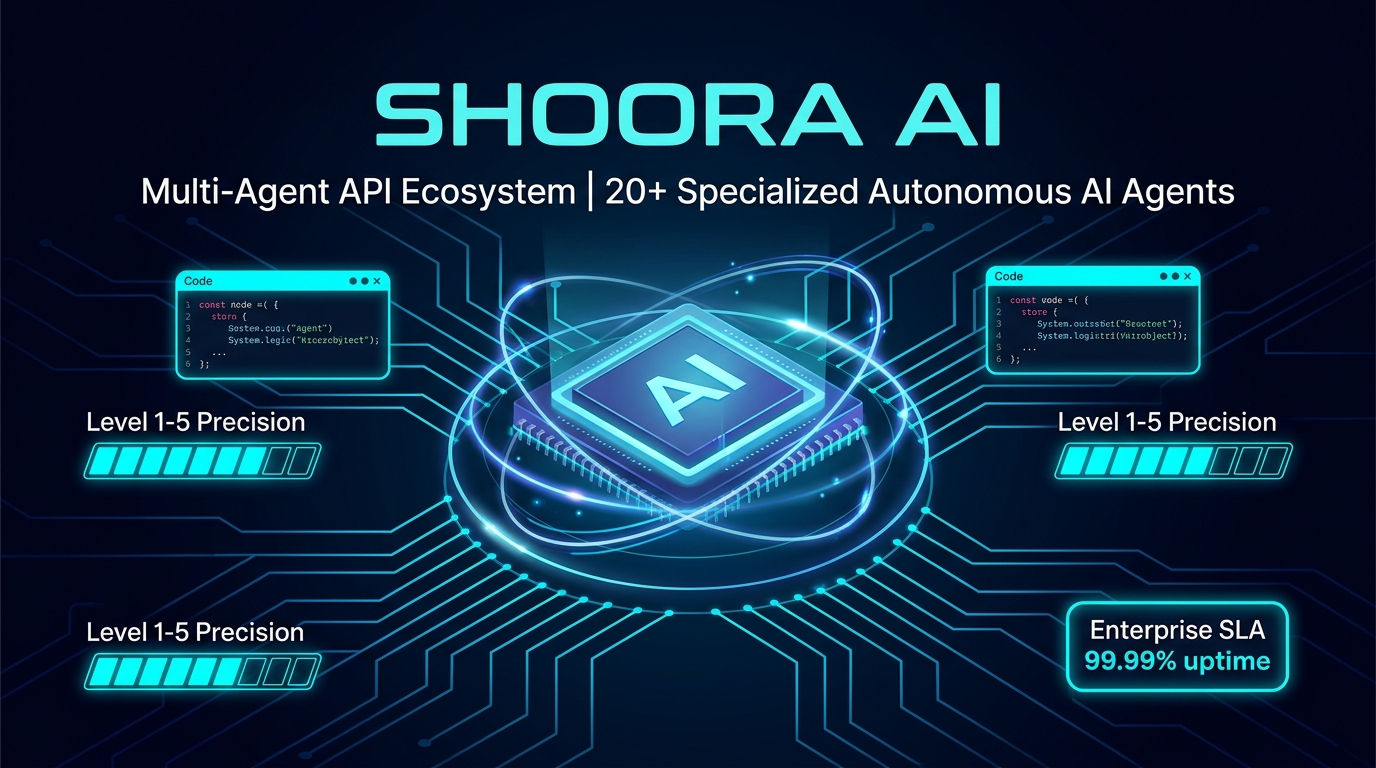
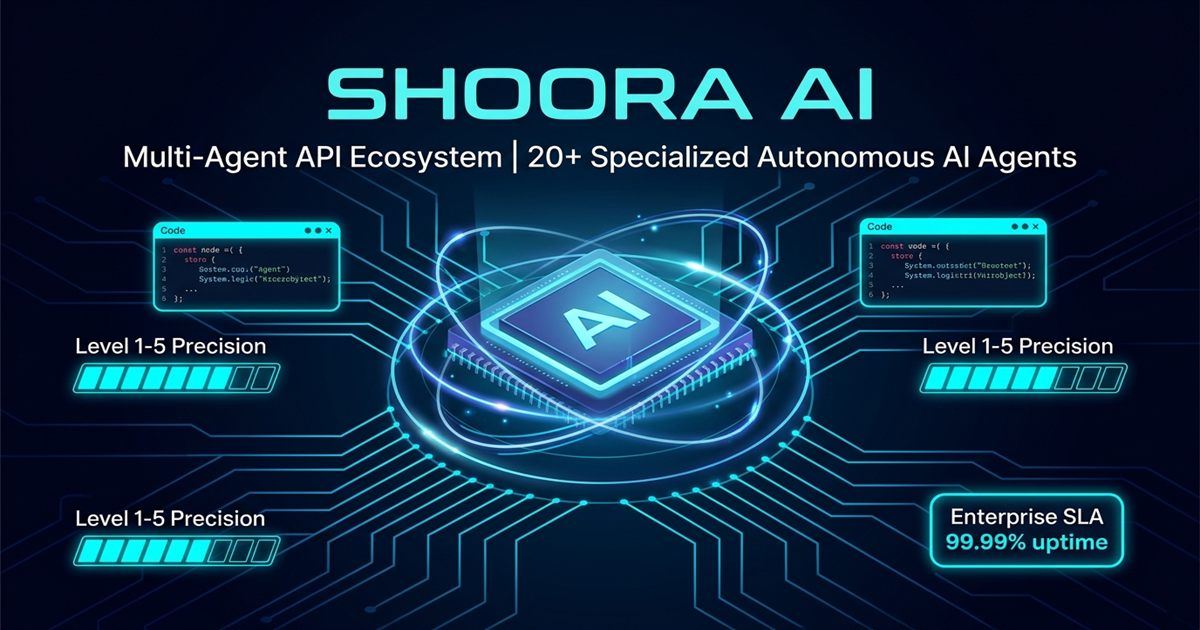
feat: optimize social share og-preview image to 120KB and add absolute HTTPS meta tags for WhatsApp previews

Changed region(s): [[0.8017, 0.8444, 0.925, 0.8746], [0.2775, 0.5127, 0.3083, 0.5429]]

diff --git a/index.html b/index.html
@@ -14,17 +14,24 @@
 
     <!-- Open Graph / WhatsApp / Facebook / LinkedIn -->
     <meta property="og:type" content="website">
-    <meta property="og:url" content="https://shoraai.web.app/">
+    <meta property="og:site_name" content="SHOORA AI">
+    <meta property="og:url" content="https://shooraapi.netlify.app/">
     <meta property="og:title" content="SHOORA AI — Multi-Agent API Platform | 20+ Autonomous AI Agents">
-    <meta property="og:description" content="Deploy 20+ specialized AI Agents powered by 5 foundation models (Shoora-Ultra Max 1.5M, Pro v4, Vision Pro & Code Specialist) with instant API key activation and real-time analytics.">
-    <meta property="og:image" content="assets/images/og-preview.jpg">
+    <meta property="og:description" content="Deploy 20+ specialized AI Agents powered by 5 foundation models (Shoora-Ultra Max 1.5M, Pro v4, Vision Pro & Code Specialist) with instant API key activation.">
+    <meta property="og:image" content="https://shooraapi.netlify.app/assets/images/og-preview.jpg">
+    <meta property="og:image:secure_url" content="https://shooraapi.netlify.app/assets/images/og-preview.jpg">
+    <meta property="og:image:type" content="image/jpeg">
+    <meta property="og:image:width" content="1200">
+    <meta property="og:image:height" content="630">
+    <meta property="og:image:alt" content="SHOORA AI Multi-Agent API Platform">
 
     <!-- Twitter Card -->
     <meta name="twitter:card" content="summary_large_image">
-    <meta name="twitter:url" content="https://shoraai.web.app/">
+    <meta name="twitter:site" content="@shooraai">
+    <meta name="twitter:url" content="https://shooraapi.netlify.app/">
     <meta name="twitter:title" content="SHOORA AI — Multi-Agent API Platform">
     <meta name="twitter:description" content="Deploy 20+ specialized AI Agents powered by 5 foundation models with instant API key activation.">
-    <meta name="twitter:image" content="assets/images/og-preview.jpg">
+    <meta name="twitter:image" content="https://shooraapi.netlify.app/assets/images/og-preview.jpg">
 
     <link rel="stylesheet" href="desktop.css" media="(min-width: 1024px)">
     <link rel="stylesheet" href="mobile.css" media="(max-width: 1023px)">

diff --git a/status.html b/status.html
@@ -14,16 +14,23 @@
 
     <!-- Open Graph / WhatsApp / Facebook / LinkedIn -->
     <meta property="og:type" content="website">
-    <meta property="og:url" content="https://shoraai.web.app/status.html">
+    <meta property="og:site_name" content="SHOORA AI">
+    <meta property="og:url" content="https://shooraapi.netlify.app/status.html">
     <meta property="og:title" content="System Status & Live Inventory Matrix | SHOORA AI Platform">
     <meta property="og:description" content="Live 99.99% SLA uptime tracker and real-time Key Vault availability across all 21 Agent categories.">
-    <meta property="og:image" content="assets/images/og-preview.jpg">
+    <meta property="og:image" content="https://shooraapi.netlify.app/assets/images/og-preview.jpg">
+    <meta property="og:image:secure_url" content="https://shooraapi.netlify.app/assets/images/og-preview.jpg">
+    <meta property="og:image:type" content="image/jpeg">
+    <meta property="og:image:width" content="1200">
+    <meta property="og:image:height" content="630">
 
     <!-- Twitter Card -->
     <meta name="twitter:card" content="summary_large_image">
+    <meta name="twitter:site" content="@shooraai">
+    <meta name="twitter:url" content="https://shooraapi.netlify.app/status.html">
     <meta name="twitter:title" content="System Status & Live Matrix | SHOORA AI">
     <meta name="twitter:description" content="Live 99.99% SLA uptime tracker and real-time Key Vault availability.">
-    <meta name="twitter:image" content="assets/images/og-preview.jpg">
+    <meta name="twitter:image" content="https://shooraapi.netlify.app/assets/images/og-preview.jpg">
 
     <link rel="stylesheet" href="desktop.css" media="(min-width: 1024px)">
     <link rel="stylesheet" href="mobile.css" media="(max-width: 1023px)">

diff --git a/pricing.html b/pricing.html
@@ -14,16 +14,23 @@
 
     <!-- Open Graph / WhatsApp / Facebook / LinkedIn -->
     <meta property="og:type" content="website">
-    <meta property="og:url" content="https://shoraai.web.app/pricing.html">
+    <meta property="og:site_name" content="SHOORA AI">
+    <meta property="og:url" content="https://shooraapi.netlify.app/pricing.html">
     <meta property="og:title" content="SHOORA AI — Dynamic API Pricing Matrix">
     <meta property="og:description" content="Configure custom API keys across 20+ Specialized Agents & 5 Foundation Models with instant activation.">
-    <meta property="og:image" content="assets/images/og-preview.jpg">
+    <meta property="og:image" content="https://shooraapi.netlify.app/assets/images/og-preview.jpg">
+    <meta property="og:image:secure_url" content="https://shooraapi.netlify.app/assets/images/og-preview.jpg">
+    <meta property="og:image:type" content="image/jpeg">
+    <meta property="og:image:width" content="1200">
+    <meta property="og:image:height" content="630">
 
     <!-- Twitter Card -->
     <meta name="twitter:card" content="summary_large_image">
+    <meta name="twitter:site" content="@shooraai">
+    <meta name="twitter:url" content="https://shooraapi.netlify.app/pricing.html">
     <meta name="twitter:title" content="SHOORA AI — Dynamic API Pricing Matrix">
     <meta name="twitter:description" content="Configure custom API keys across 20+ Specialized Agents & 5 Foundation Models.">
-    <meta name="twitter:image" content="assets/images/og-preview.jpg">
+    <meta name="twitter:image" content="https://shooraapi.netlify.app/assets/images/og-preview.jpg">
 
     <link rel="stylesheet" href="desktop.css" media="(min-width: 1024px)">
     <link rel="stylesheet" href="mobile.css" media="(max-width: 1023px)">

diff --git a/register.html b/register.html
@@ -14,16 +14,23 @@
 
     <!-- Open Graph / WhatsApp / Facebook / LinkedIn -->
     <meta property="og:type" content="website">
-    <meta property="og:url" content="https://shoraai.web.app/register.html">
+    <meta property="og:site_name" content="SHOORA AI">
+    <meta property="og:url" content="https://shooraapi.netlify.app/register.html">
     <meta property="og:title" content="Get Custom API Key | SHOORA AI API Platform">
     <meta property="og:description" content="Activate your custom multi-agent API key with instant inventory vault fulfillment.">
-    <meta property="og:image" content="assets/images/og-preview.jpg">
+    <meta property="og:image" content="https://shooraapi.netlify.app/assets/images/og-preview.jpg">
+    <meta property="og:image:secure_url" content="https://shooraapi.netlify.app/assets/images/og-preview.jpg">
+    <meta property="og:image:type" content="image/jpeg">
+    <meta property="og:image:width" content="1200">
+    <meta property="og:image:height" content="630">
 
     <!-- Twitter Card -->
     <meta name="twitter:card" content="summary_large_image">
+    <meta name="twitter:site" content="@shooraai">
+    <meta name="twitter:url" content="https://shooraapi.netlify.app/register.html">
     <meta name="twitter:title" content="Get Custom API Key | SHOORA AI Platform">
     <meta name="twitter:description" content="Activate your custom multi-agent API key with instant inventory vault fulfillment.">
-    <meta name="twitter:image" content="assets/images/og-preview.jpg">
+    <meta name="twitter:image" content="https://shooraapi.netlify.app/assets/images/og-preview.jpg">
 
     <link rel="stylesheet" href="desktop.css" media="(min-width: 1024px)">
     <link rel="stylesheet" href="mobile.css" media="(max-width: 1023px)">

diff --git a/curriculum.html b/curriculum.html
@@ -14,16 +14,23 @@
 
     <!-- Open Graph / WhatsApp / Facebook / LinkedIn -->
     <meta property="og:type" content="website">
-    <meta property="og:url" content="https://shoraai.web.app/curriculum.html">
+    <meta property="og:site_name" content="SHOORA AI">
+    <meta property="og:url" content="https://shooraapi.netlify.app/curriculum.html">
     <meta property="og:title" content="Developer Documentation | SHOORA AI API Platform">
     <meta property="og:description" content="Complete multi-agent API integration recipes, authentication guides, and endpoint references.">
-    <meta property="og:image" content="assets/images/og-preview.jpg">
+    <meta property="og:image" content="https://shooraapi.netlify.app/assets/images/og-preview.jpg">
+    <meta property="og:image:secure_url" content="https://shooraapi.netlify.app/assets/images/og-preview.jpg">
+    <meta property="og:image:type" content="image/jpeg">
+    <meta property="og:image:width" content="1200">
+    <meta property="og:image:height" content="630">
 
     <!-- Twitter Card -->
     <meta name="twitter:card" content="summary_large_image">
+    <meta name="twitter:site" content="@shooraai">
+    <meta name="twitter:url" content="https://shooraapi.netlify.app/curriculum.html">
     <meta name="twitter:title" content="Developer Docs | SHOORA AI">
     <meta name="twitter:description" content="Complete multi-agent API integration recipes and endpoint references.">
-    <meta name="twitter:image" content="assets/images/og-preview.jpg">
+    <meta name="twitter:image" content="https://shooraapi.netlify.app/assets/images/og-preview.jpg">
 
     <link rel="stylesheet" href="desktop.css" media="(min-width: 1024px)">
     <link rel="stylesheet" href="mobile.css" media="(max-width: 1023px)">

diff --git a/dashboard.html b/dashboard.html
@@ -14,16 +14,23 @@
 
     <!-- Open Graph / WhatsApp / Facebook / LinkedIn -->
     <meta property="og:type" content="website">
-    <meta property="og:url" content="https://shoraai.web.app/dashboard.html">
+    <meta property="og:site_name" content="SHOORA AI">
+    <meta property="og:url" content="https://shooraapi.netlify.app/dashboard.html">
     <meta property="og:title" content="Customer Key & Analytics Dashboard | SHOORA AI Platform">
     <meta property="og:description" content="Manage your API keys and inspect real-time performance telemetry.">
-    <meta property="og:image" content="assets/images/og-preview.jpg">
+    <meta property="og:image" content="https://shooraapi.netlify.app/assets/images/og-preview.jpg">
+    <meta property="og:image:secure_url" content="https://shooraapi.netlify.app/assets/images/og-preview.jpg">
+    <meta property="og:image:type" content="image/jpeg">
+    <meta property="og:image:width" content="1200">
+    <meta property="og:image:height" content="630">
 
     <!-- Twitter Card -->
     <meta name="twitter:card" content="summary_large_image">
+    <meta name="twitter:site" content="@shooraai">
+    <meta name="twitter:url" content="https://shooraapi.netlify.app/dashboard.html">
     <meta name="twitter:title" content="Customer Dashboard | SHOORA AI Platform">
     <meta name="twitter:description" content="Manage your API keys and inspect real-time performance telemetry.">
-    <meta name="twitter:image" content="assets/images/og-preview.jpg">
+    <meta name="twitter:image" content="https://shooraapi.netlify.app/assets/images/og-preview.jpg">
 
     <link rel="stylesheet" href="desktop.css" media="(min-width: 1024px)">
     <link rel="stylesheet" href="mobile.css" media="(max-width: 1023px)">

diff --git a/use-cases.html b/use-cases.html
@@ -14,10 +14,15 @@
 
     <!-- Open Graph / WhatsApp / Facebook / LinkedIn -->
     <meta property="og:type" content="website">
-    <meta property="og:url" content="https://shoraai.web.app/use-cases.html">
+    <meta property="og:site_name" content="SHOORA AI">
+    <meta property="og:url" content="https://shooraapi.netlify.app/use-cases.html">
     <meta property="og:title" content="Enterprise AI Use Cases | SHOORA AI Platform">
     <meta property="og:description" content="Discover how 20+ specialized AI agents drive autonomous workflows across industries.">
-    <meta property="og:image" content="assets/images/og-preview.jpg">
+    <meta property="og:image" content="https://shooraapi.netlify.app/assets/images/og-preview.jpg">
+    <meta property="og:image:secure_url" content="https://shooraapi.netlify.app/assets/images/og-preview.jpg">
+    <meta property="og:image:type" content="image/jpeg">
+    <meta property="og:image:width" content="1200">
+    <meta property="og:image:height" content="630">
 
     <link rel="stylesheet" href="desktop.css" media="(min-width: 1024px)">
     <link rel="stylesheet" href="mobile.css" media="(max-width: 1023px)">

diff --git a/about.html b/about.html
@@ -14,10 +14,15 @@
 
     <!-- Open Graph / WhatsApp / Facebook / LinkedIn -->
     <meta property="og:type" content="website">
-    <meta property="og:url" content="https://shoraai.web.app/about.html">
+    <meta property="og:site_name" content="SHOORA AI">
+    <meta property="og:url" content="https://shooraapi.netlify.app/about.html">
     <meta property="og:title" content="About SHOORA AI — Autonomous AI Infrastructure">
     <meta property="og:description" content="Empowering modern developers with enterprise-scale multi-agent artificial intelligence.">
-    <meta property="og:image" content="assets/images/og-preview.jpg">
+    <meta property="og:image" content="https://shooraapi.netlify.app/assets/images/og-preview.jpg">
+    <meta property="og:image:secure_url" content="https://shooraapi.netlify.app/assets/images/og-preview.jpg">
+    <meta property="og:image:type" content="image/jpeg">
+    <meta property="og:image:width" content="1200">
+    <meta property="og:image:height" content="630">
 
     <link rel="stylesheet" href="desktop.css" media="(min-width: 1024px)">
     <link rel="stylesheet" href="mobile.css" media="(max-width: 1023px)">

diff --git a/support.html b/support.html
@@ -14,10 +14,15 @@
 
     <!-- Open Graph / WhatsApp / Facebook / LinkedIn -->
     <meta property="og:type" content="website">
-    <meta property="og:url" content="https://shoraai.web.app/support.html">
+    <meta property="og:site_name" content="SHOORA AI">
+    <meta property="og:url" content="https://shooraapi.netlify.app/support.html">
     <meta property="og:title" content="Enterprise Developer Support | SHOORA AI Platform">
     <meta property="og:description" content="Reach our 24/7 AI systems engineering team for dedicated API integration support.">
-    <meta property="og:image" content="assets/images/og-preview.jpg">
+    <meta property="og:image" content="https://shooraapi.netlify.app/assets/images/og-preview.jpg">
+    <meta property="og:image:secure_url" content="https://shooraapi.netlify.app/assets/images/og-preview.jpg">
+    <meta property="og:image:type" content="image/jpeg">
+    <meta property="og:image:width" content="1200">
+    <meta property="og:image:height" content="630">
 
     <link rel="stylesheet" href="desktop.css" media="(min-width: 1024px)">
     <link rel="stylesheet" href="mobile.css" media="(max-width: 1023px)">

diff --git a/privacy.html b/privacy.html
@@ -14,10 +14,15 @@
 
     <!-- Open Graph / WhatsApp / Facebook / LinkedIn -->
     <meta property="og:type" content="website">
-    <meta property="og:url" content="https://shoraai.web.app/privacy.html">
+    <meta property="og:site_name" content="SHOORA AI">
+    <meta property="og:url" content="https://shooraapi.netlify.app/privacy.html">
     <meta property="og:title" content="Privacy Policy & Security Standards | SHOORA AI">
     <meta property="og:description" content="Zero-data retention, AES-256 encryption, and enterprise compliance standards.">
-    <meta property="og:image" content="assets/images/og-preview.jpg">
+    <meta property="og:image" content="https://shooraapi.netlify.app/assets/images/og-preview.jpg">
+    <meta property="og:image:secure_url" content="https://shooraapi.netlify.app/assets/images/og-preview.jpg">
+    <meta property="og:image:type" content="image/jpeg">
+    <meta property="og:image:width" content="1200">
+    <meta property="og:image:height" content="630">
 
     <link rel="stylesheet" href="desktop.css" media="(min-width: 1024px)">
     <link rel="stylesheet" href="mobile.css" media="(max-width: 1023px)">

diff --git a/login.html b/login.html
@@ -14,10 +14,15 @@
 
     <!-- Open Graph / WhatsApp / Facebook / LinkedIn -->
     <meta property="og:type" content="website">
-    <meta property="og:url" content="https://shoraai.web.app/login.html">
+    <meta property="og:site_name" content="SHOORA AI">
+    <meta property="og:url" content="https://shooraapi.netlify.app/login.html">
     <meta property="og:title" content="Account Authentication | SHOORA AI Platform">
     <meta property="og:description" content="Sign in or create your developer account for instant API key activation.">
-    <meta property="og:image" content="assets/images/og-preview.jpg">
+    <meta property="og:image" content="https://shooraapi.netlify.app/assets/images/og-preview.jpg">
+    <meta property="og:image:secure_url" content="https://shooraapi.netlify.app/assets/images/og-preview.jpg">
+    <meta property="og:image:type" content="image/jpeg">
+    <meta property="og:image:width" content="1200">
+    <meta property="og:image:height" content="630">
 
     <link rel="stylesheet" href="desktop.css" media="(min-width: 1024px)">
     <link rel="stylesheet" href="mobile.css" media="(max-width: 1023px)">
